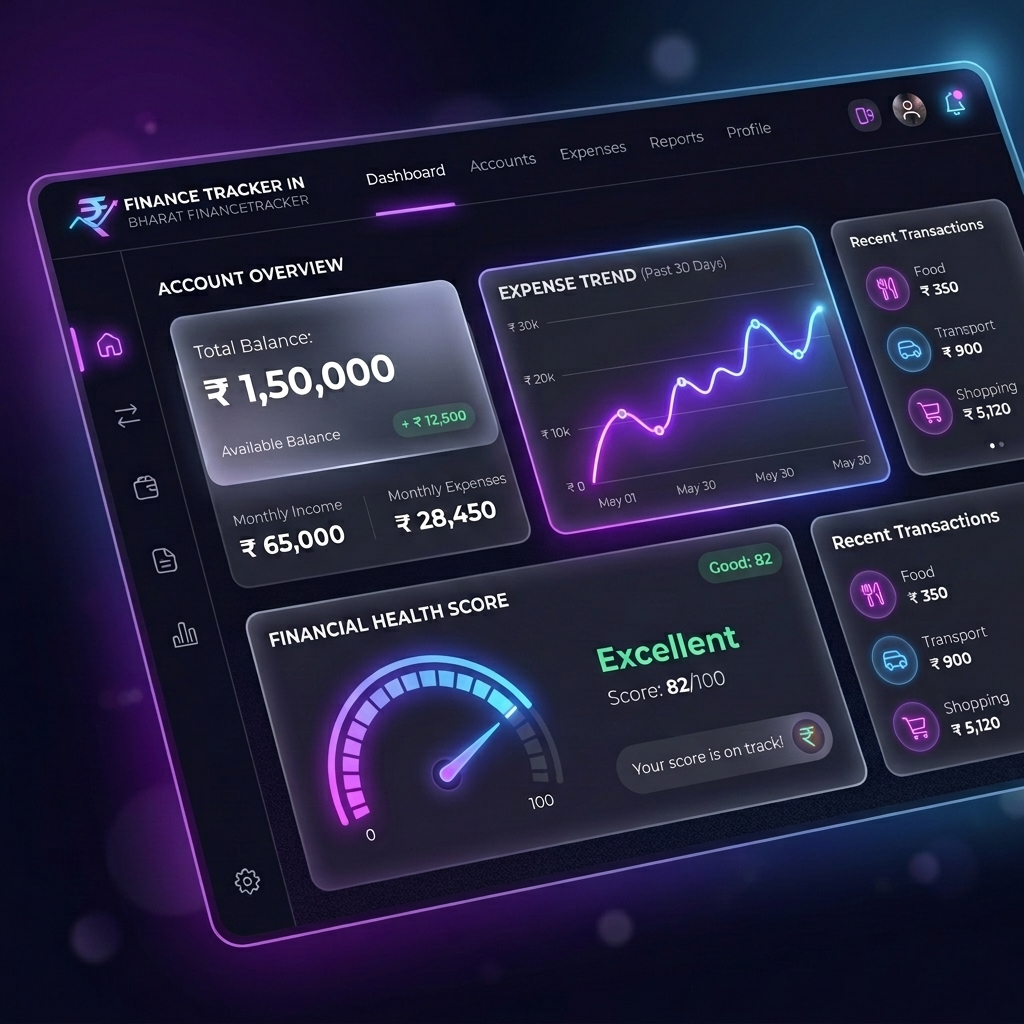
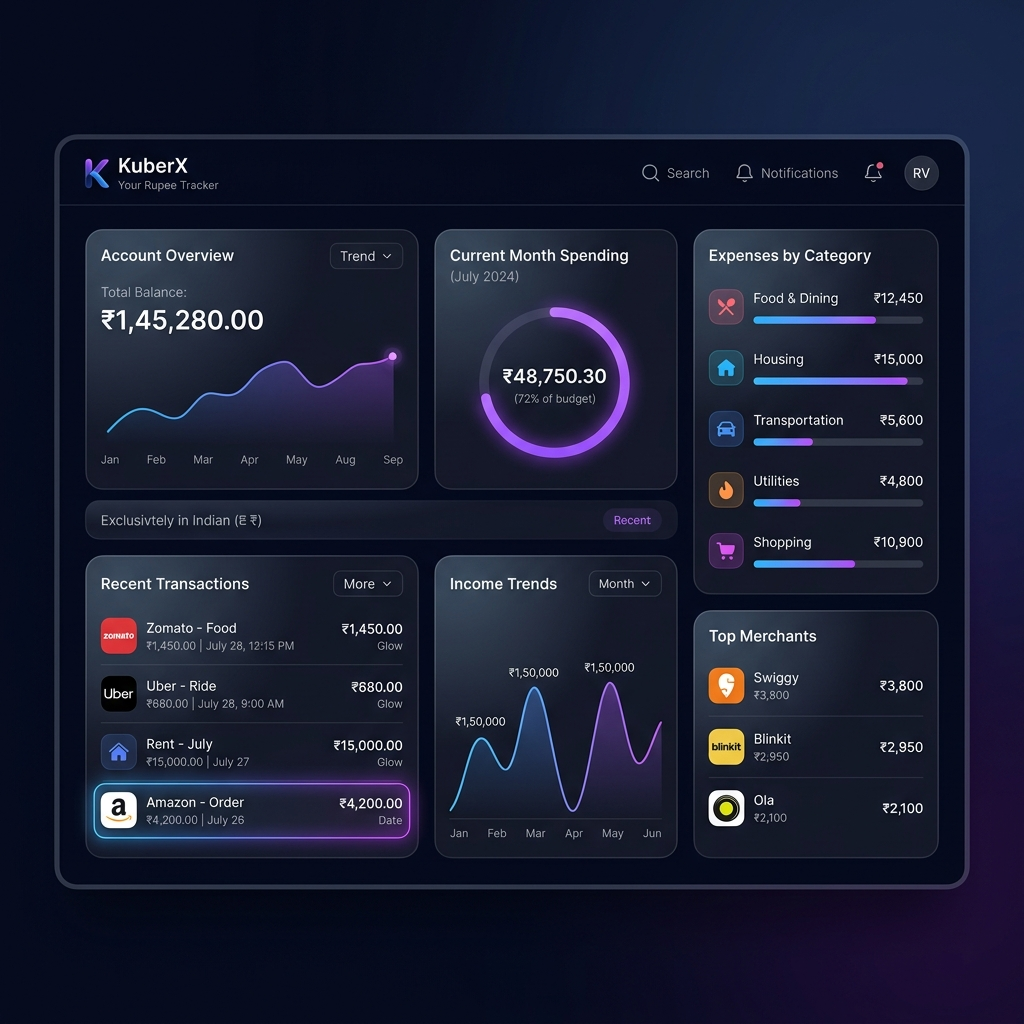
Added Signup and About pages

diff --git a/src/app/about/page.js b/src/app/about/page.js
@@ -1,0 +1,68 @@
+"use client";
+import React from 'react';
+import Link from 'next/link';
+import { ArrowLeft, Code, Database, LayoutTemplate, ShieldCheck } from 'lucide-react';
+
+export default function About() {
+  return (
+    <div className="animate-fade-in" style={{ minHeight: '100vh', display: 'flex', flexDirection: 'column', alignItems: 'center', padding: '40px 24px' }}>
+      
+      <div style={{ width: '100%', maxWidth: '900px' }}>
+        <Link href="/">
+          <button className="btn-primary" style={{ display: 'flex', alignItems: 'center', gap: '8px', marginBottom: '40px', background: 'transparent', border: '1px solid var(--glass-border)', color: 'var(--text-primary)' }}>
+            <ArrowLeft size={16} /> Back to Home
+          </button>
+        </Link>
+        
+        <header style={{ marginBottom: '48px', textAlign: 'center' }}>
+          <h1 className="gradient-text" style={{ fontSize: '3.5rem', marginBottom: '16px' }}>About The Project</h1>
+          <p className="subtitle" style={{ fontSize: '1.2rem', maxWidth: '600px', margin: '0 auto' }}>
+            A next-generation financial tracker built with modern web technologies, designed to demonstrate full-stack engineering proficiency.
+          </p>
+        </header>
+
+        <div className="grid-2">
+          <div className="glass-panel" style={{ padding: '32px', transition: 'transform 0.3s ease' }} onMouseEnter={(e) => e.currentTarget.style.transform = 'translateY(-5px)'} onMouseLeave={(e) => e.currentTarget.style.transform = 'translateY(0)'}>
+            <div style={{ display: 'flex', alignItems: 'center', gap: '12px', marginBottom: '16px' }}>
+              <div style={{ padding: '10px', background: 'rgba(59, 130, 246, 0.1)', borderRadius: '12px' }}><LayoutTemplate style={{ color: 'var(--accent-secondary)' }}/></div>
+              <h3 style={{ fontSize: '1.4rem' }}>Next.js App Router</h3>
+            </div>
+            <p style={{ color: 'var(--text-secondary)', lineHeight: '1.6' }}>
+              Built from the ground up using React and the Next.js App Router architecture. Features instant client-side transitions and robust component encapsulation for optimal performance.
+            </p>
+          </div>
+
+          <div className="glass-panel" style={{ padding: '32px', transition: 'transform 0.3s ease' }} onMouseEnter={(e) => e.currentTarget.style.transform = 'translateY(-5px)'} onMouseLeave={(e) => e.currentTarget.style.transform = 'translateY(0)'}>
+            <div style={{ display: 'flex', alignItems: 'center', gap: '12px', marginBottom: '16px' }}>
+              <div style={{ padding: '10px', background: 'rgba(16, 185, 129, 0.1)', borderRadius: '12px' }}><Database style={{ color: 'var(--accent-success)' }}/></div>
+              <h3 style={{ fontSize: '1.4rem' }}>Zero-Config Engine</h3>
+            </div>
+            <p style={{ color: 'var(--text-secondary)', lineHeight: '1.6' }}>
+              Engineered with a resilient fallback system. If a MongoDB connection is not provided, the API automatically transitions to a mock in-memory data store, ensuring 100% uptime and accessibility.
+            </p>
+          </div>
+
+          <div className="glass-panel" style={{ padding: '32px', transition: 'transform 0.3s ease' }} onMouseEnter={(e) => e.currentTarget.style.transform = 'translateY(-5px)'} onMouseLeave={(e) => e.currentTarget.style.transform = 'translateY(0)'}>
+            <div style={{ display: 'flex', alignItems: 'center', gap: '12px', marginBottom: '16px' }}>
+              <div style={{ padding: '10px', background: 'rgba(124, 58, 237, 0.1)', borderRadius: '12px' }}><Code style={{ color: 'var(--accent-primary)' }}/></div>
+              <h3 style={{ fontSize: '1.4rem' }}>Premium UX/UI</h3>
+            </div>
+            <p style={{ color: 'var(--text-secondary)', lineHeight: '1.6' }}>
+              Features a bespoke glassmorphic design system. Utilizes Recharts for incredibly smooth, interactive data visualizations and dynamic mathematical tracking for budgets.
+            </p>
+          </div>
+
+          <div className="glass-panel" style={{ padding: '32px', transition: 'transform 0.3s ease' }} onMouseEnter={(e) => e.currentTarget.style.transform = 'translateY(-5px)'} onMouseLeave={(e) => e.currentTarget.style.transform = 'translateY(0)'}>
+            <div style={{ display: 'flex', alignItems: 'center', gap: '12px', marginBottom: '16px' }}>
+              <div style={{ padding: '10px', background: 'rgba(245, 158, 11, 0.1)', borderRadius: '12px' }}><ShieldCheck style={{ color: '#f59e0b' }}/></div>
+              <h3 style={{ fontSize: '1.4rem' }}>Data Portability</h3>
+            </div>
+            <p style={{ color: 'var(--text-secondary)', lineHeight: '1.6' }}>
+              Empowers users with complete control over their financial history through client-side CSV exports, leveraging native browser Blob APIs without server-side processing.
+            </p>
+          </div>
+        </div>
+      </div>
+    </div>
+  );
+}

diff --git a/src/app/signup/page.js b/src/app/signup/page.js
@@ -1,0 +1,47 @@
+"use client";
+import React, { useState } from 'react';
+import { useRouter } from 'next/navigation';
+import Link from 'next/link';
+import { UserPlus, ArrowRight } from 'lucide-react';
+
+export default function Signup() {
+  const [loading, setLoading] = useState(false);
+  const router = useRouter();
+
+  const handleSignup = (e) => {
+    e.preventDefault();
+    setLoading(true);
+    // Simulate API call for independent site
+    setTimeout(() => {
+      router.push('/dashboard');
+    }, 1000);
+  };
+
+  return (
+    <div style={{ display: 'flex', justifyContent: 'center', alignItems: 'center', minHeight: '80vh', width: '100%' }}>
+      <div className="glass-panel animate-fade-in" style={{ padding: '48px', width: '100%', maxWidth: '420px', textAlign: 'center' }}>
+        <div style={{ display: 'flex', justifyContent: 'center', marginBottom: '16px' }}>
+          <div style={{ width: '48px', height: '48px', borderRadius: '50%', background: 'rgba(124, 58, 237, 0.1)', display: 'flex', alignItems: 'center', justifyContent: 'center' }}>
+            <UserPlus style={{ color: 'var(--accent-primary)' }} />
+          </div>
+        </div>
+        <h1 className="gradient-text" style={{ fontSize: '2.2rem', marginBottom: '8px' }}>Create Account</h1>
+        <p className="subtitle" style={{ marginBottom: '32px' }}>Join us and master your money.</p>
+        
+        <form onSubmit={handleSignup} style={{ display: 'flex', flexDirection: 'column', gap: '16px' }}>
+          <input type="text" placeholder="Full Name" required style={{ width: '100%' }} />
+          <input type="email" placeholder="Email Address" required style={{ width: '100%' }} />
+          <input type="password" placeholder="Password" required style={{ width: '100%' }} />
+          
+          <button type="submit" className="btn-primary" disabled={loading} style={{ width: '100%', marginTop: '8px', display: 'flex', justifyContent: 'center', alignItems: 'center', gap: '8px' }}>
+            {loading ? 'Creating...' : <>Sign Up <ArrowRight size={18} /></>}
+          </button>
+        </form>
+
+        <p style={{ marginTop: '24px', color: 'var(--text-secondary)', fontSize: '0.9rem' }}>
+          Already have an account? <Link href="/login" style={{ color: 'var(--accent-primary)', textDecoration: 'none', fontWeight: 600 }}>Sign In</Link>
+        </p>
+      </div>
+    </div>
+  );
+}

diff --git a/src/app/page.js b/src/app/page.js
@@ -11,11 +11,15 @@ export default function LandingPage() {
       {/* Navigation Bar */}
       <nav style={{ width: '100%', maxWidth: '1200px', padding: '24px', display: 'flex', justifyContent: 'space-between', alignItems: 'center' }}>
         <h1 className="gradient-text" style={{ fontSize: '2rem', margin: 0 }}>Expense Tracker</h1>
-        <Link href="/login">
-          <button className="btn-primary" style={{ display: 'flex', alignItems: 'center', gap: '8px' }}>
-            Sign In <ArrowRight size={16} />
-          </button>
-        </Link>
+        <div style={{ display: 'flex', gap: '24px', alignItems: 'center' }}>
+          <Link href="/about" className="nav-link" style={{ background: 'transparent', padding: 0 }}>About</Link>
+          <Link href="/login" className="nav-link" style={{ background: 'transparent', padding: 0 }}>Sign In</Link>
+          <Link href="/signup">
+            <button className="btn-primary" style={{ display: 'flex', alignItems: 'center', gap: '8px' }}>
+              Sign Up <ArrowRight size={16} />
+            </button>
+          </Link>
+        </div>
       </nav>
 
       {/* Hero Section */}
@@ -26,7 +30,7 @@ export default function LandingPage() {
         <p style={{ fontSize: '1.2rem', color: 'var(--text-secondary)', marginBottom: '40px', lineHeight: '1.6' }}>
           Stop wondering where your money goes. Track expenses, analyze spending habits, and get AI-powered insights to secure your financial future.
         </p>
-        <Link href="/login">
+        <Link href="/signup">
           <button className="btn-primary" style={{ padding: '16px 32px', fontSize: '1.1rem', borderRadius: '100px', boxShadow: '0 8px 30px rgba(124, 58, 237, 0.4)' }}>
             Start Tracking for Free
           </button>

diff --git a/src/components/Sidebar.js b/src/components/Sidebar.js
@@ -7,8 +7,9 @@ import { LayoutDashboard, ListVideo, Sparkles, LogOut } from 'lucide-react';
 export default function Sidebar() {
   const pathname = usePathname();
 
-  // Don't show sidebar on login or landing page
-  if (pathname === '/login' || pathname === '/') return null;
+  // Don't show sidebar on public pages
+  const publicPages = ['/', '/login', '/signup', '/about'];
+  if (publicPages.includes(pathname)) return null;
 
   return (
     <aside className="sidebar glass-panel">
